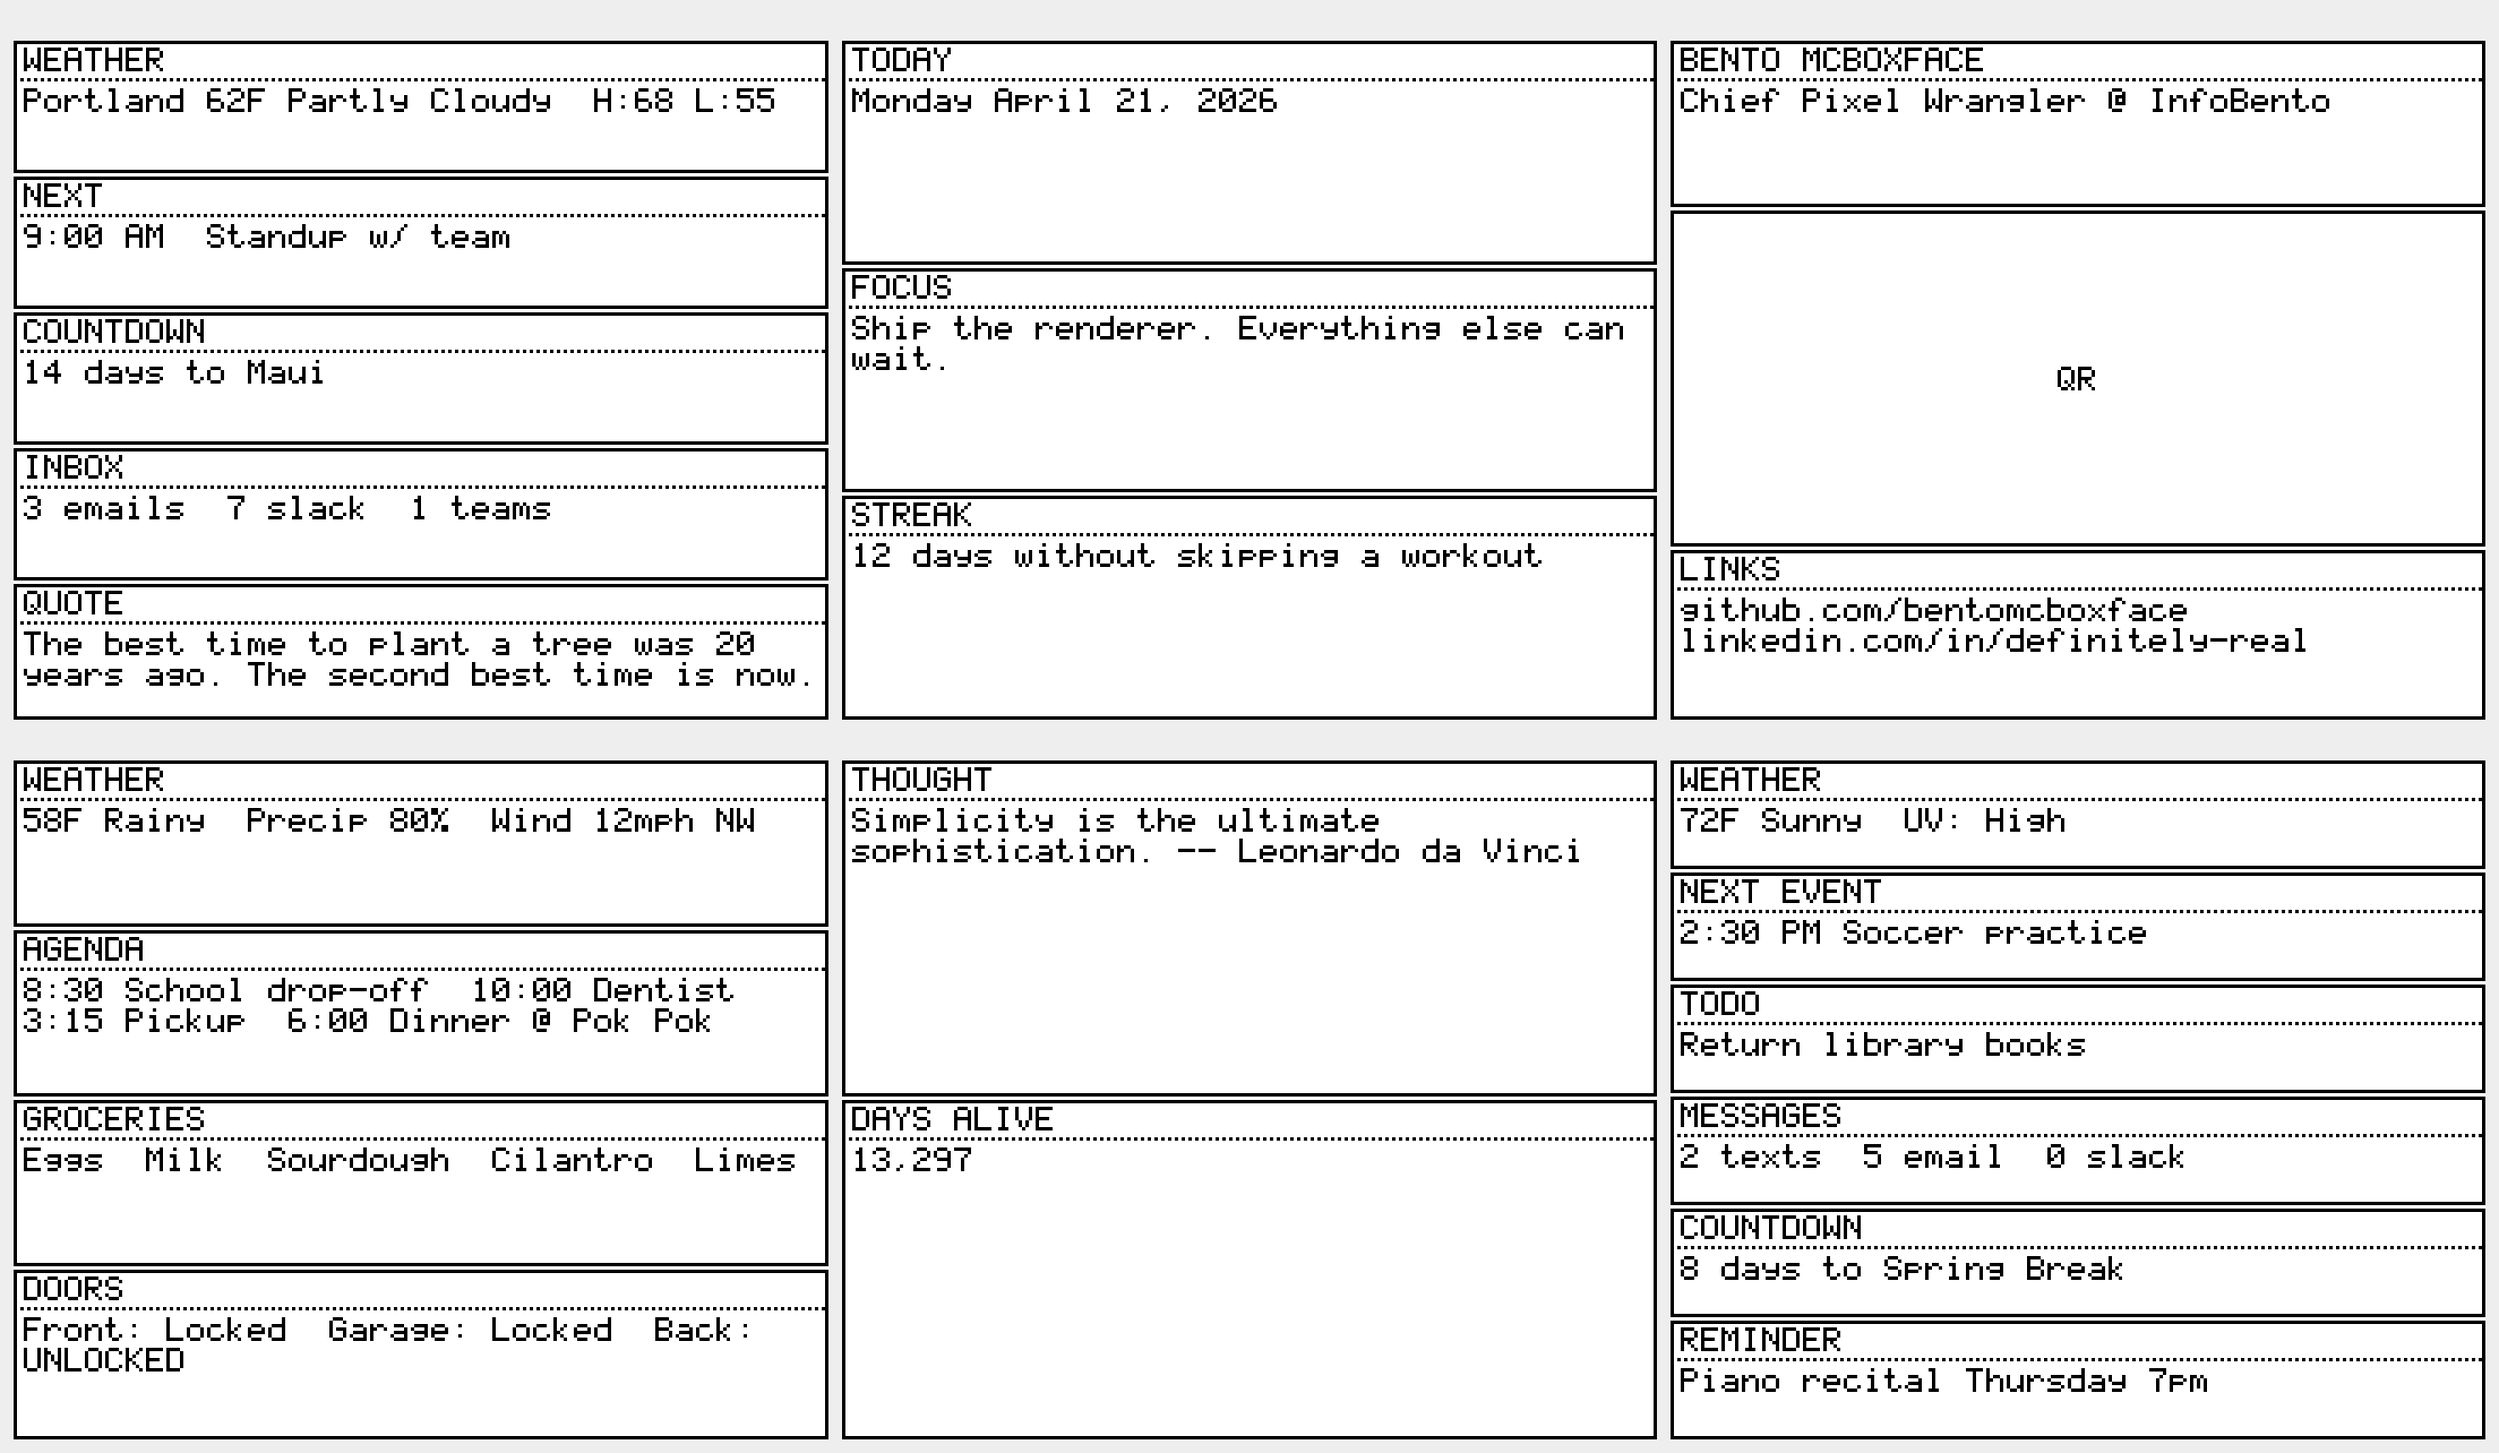
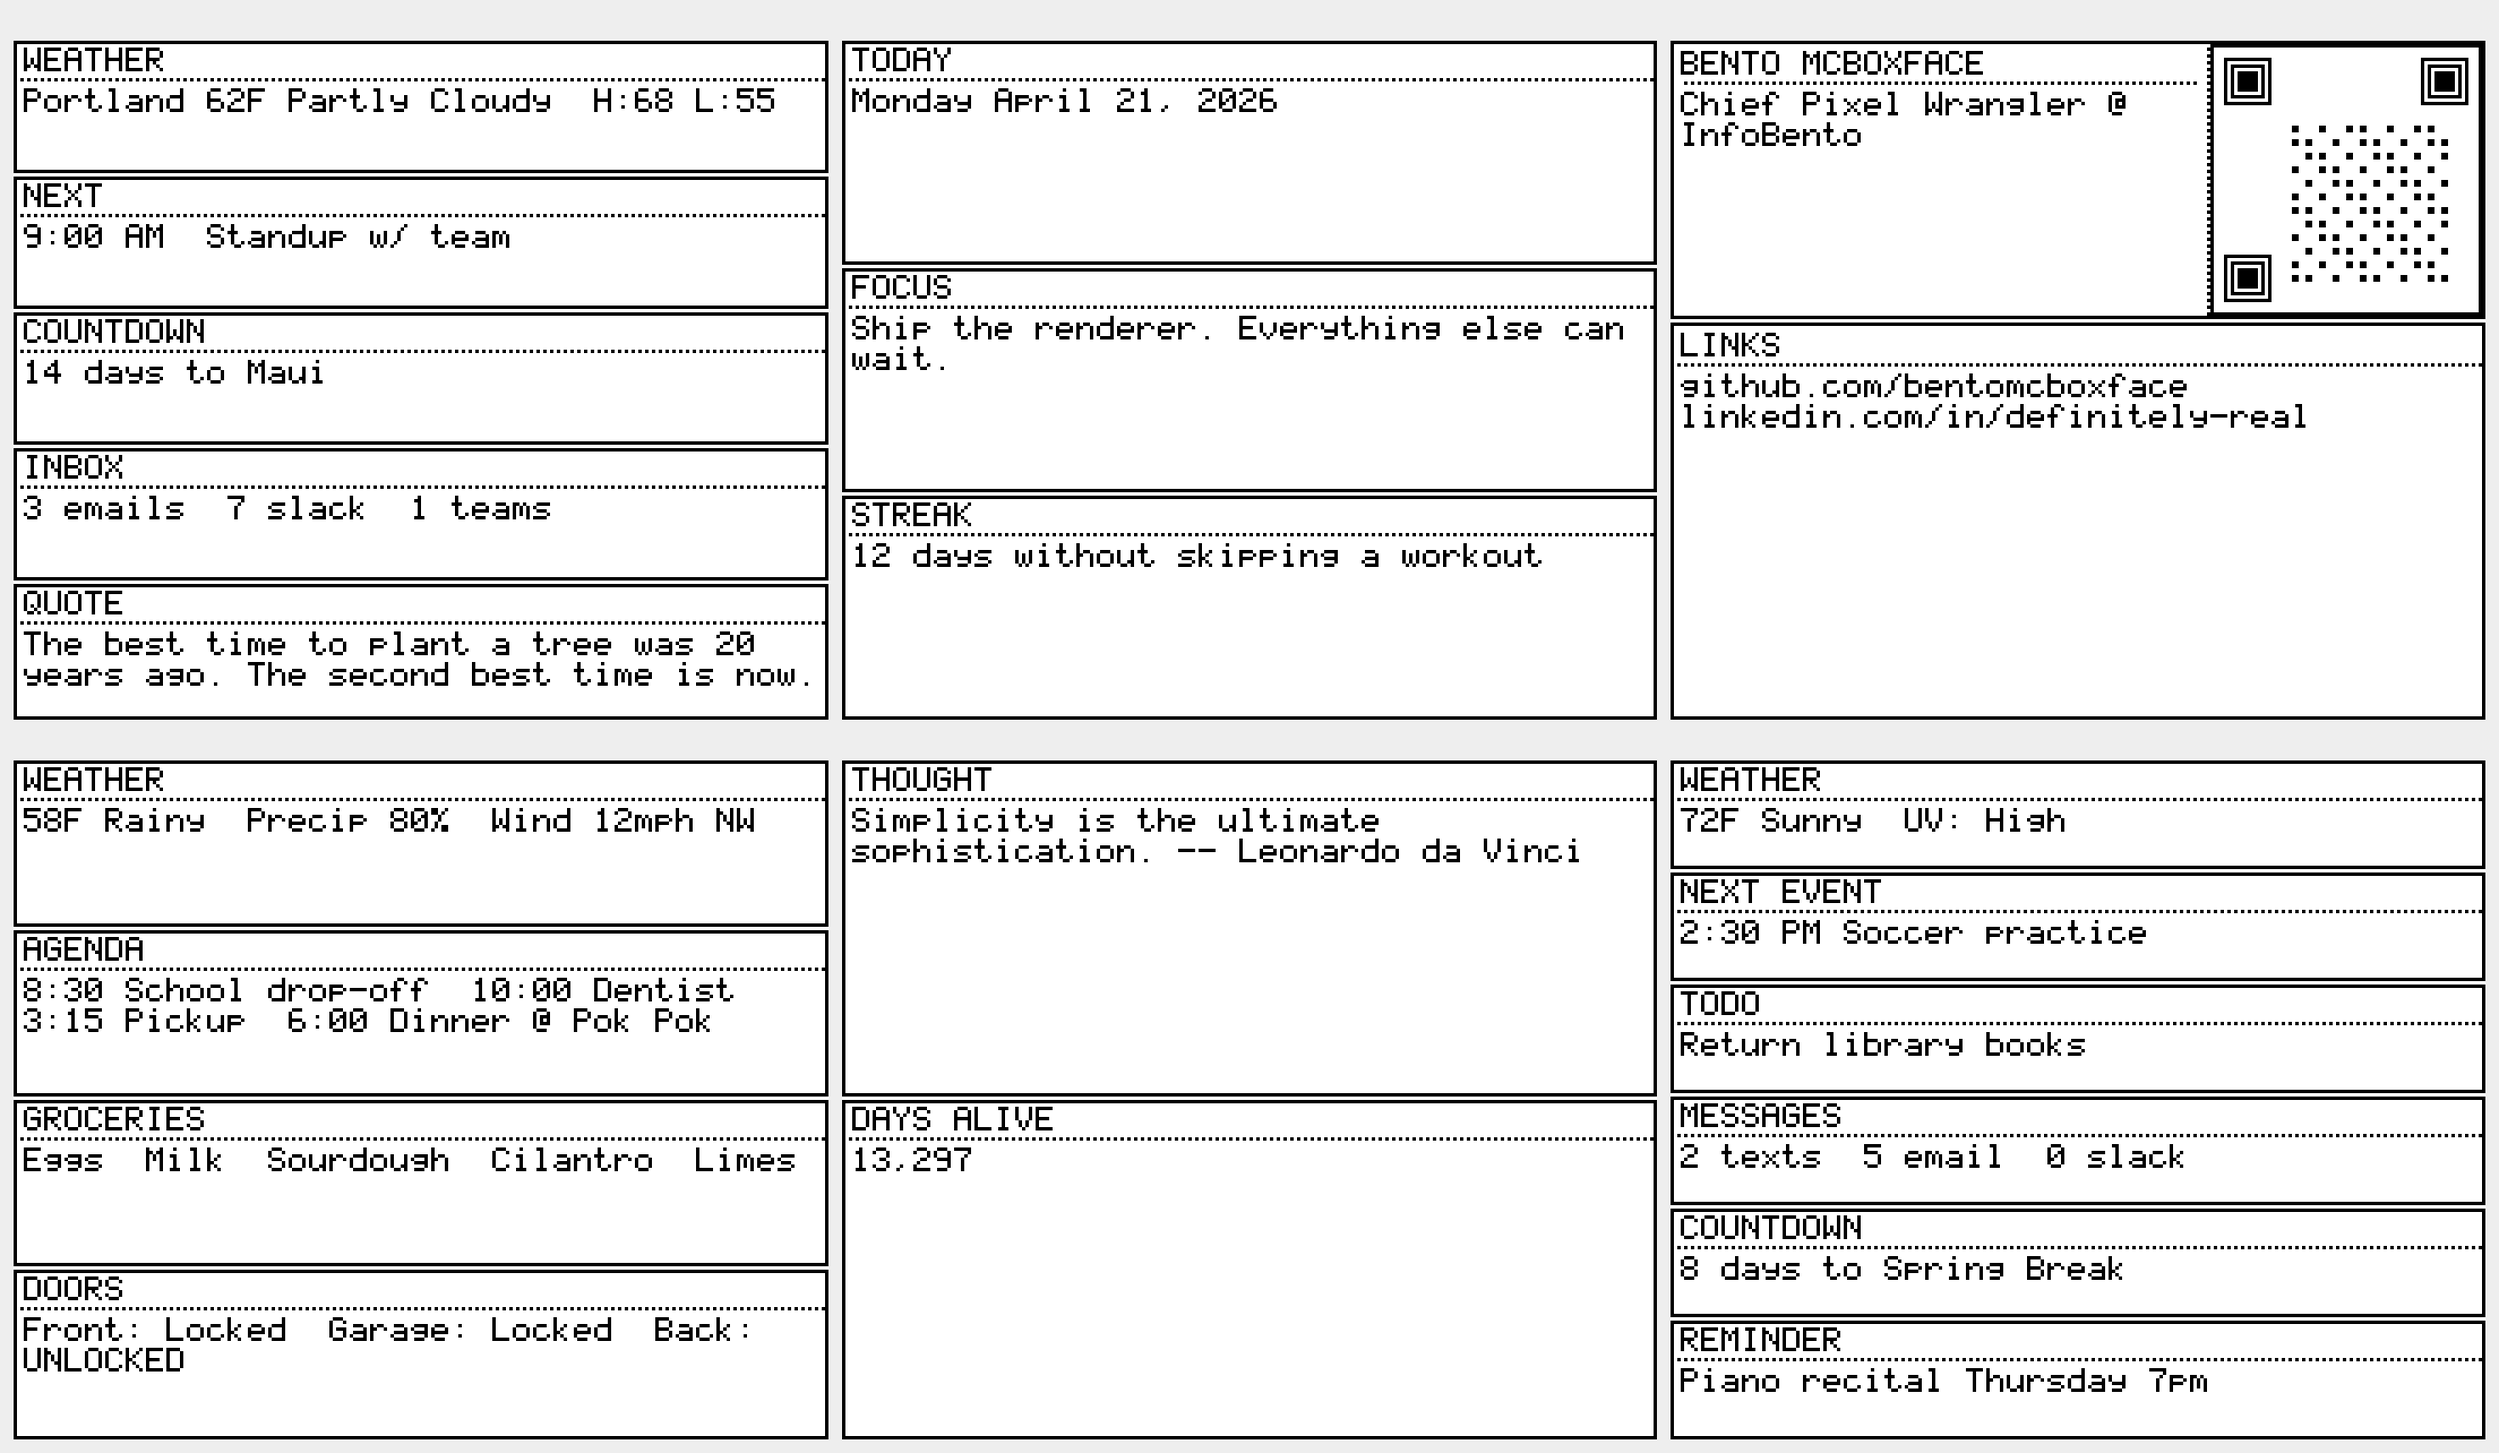
feat(renderer): split layout for networking card — name left, QR right
Custom render for Config C places text on the left and a fake QR
code with finder patterns on the right. Demonstrates horizontal
subdivision within the 240x200 display.

Changed region(s): [[0.6562, 0.031, 1.0, 0.3096], [0.6562, 0.3715, 1.0, 0.4644], [0.9688, 0.031, 1.0, 0.0929]]

diff --git a/scripts/generate-previews.ts b/scripts/generate-previews.ts
@@ -3,8 +3,10 @@
  * Outputs individual PNGs and a contact sheet.
  */
 
-import { render, frameToPng } from '@infobento/renderer';
+import { render, frameToPng, createFrameBuffer } from '@infobento/renderer';
 import type { BentoConfig } from '@infobento/core';
+import { drawRect, drawText, drawTextWrapped, drawHLine } from '../packages/renderer/src/draw.js';
+import { FONT_HEIGHT } from '../packages/renderer/src/font.js';
 import { writeFileSync } from 'node:fs';
 import { PNG } from 'pngjs';
 
@@ -75,25 +77,83 @@ const configB: BentoConfig = {
   refreshesPerDay: 1,
 };
 
-// --- Config C: Networking Card (2 boxes + QR placeholder, asymmetric) ---
-const configC: BentoConfig = {
-  boxes: [
-    {
-      id: '1',
-      label: 'Bento McBoxface',
-      type: 'text',
-      config: { type: 'text', text: 'Chief Pixel Wrangler @ InfoBento' },
-    },
-    { id: '2', label: 'QR', type: 'qr' },
-    {
-      id: '3',
-      label: 'Links',
-      type: 'text',
-      config: { type: 'text', text: 'github.com/bentomcboxface  linkedin.com/in/definitely-real' },
-    },
-  ],
-  refreshesPerDay: 1,
-};
+// --- Config C: Networking Card (custom split layout — name left, QR right) ---
+function renderNetworkingCard() {
+  const fb = createFrameBuffer();
+  const W = 240;
+  const PAD = 3;
+  const qrSize = 80;
+  const qrX = W - qrSize - 1; // right-aligned inside outer border
+  const topH = qrSize + 2; // top section height (QR + borders)
+
+  // Outer border for top section
+  drawRect(fb, 0, 0, W, topH);
+
+  // QR placeholder box on the right
+  drawRect(fb, qrX, 1, qrSize, qrSize);
+  // Draw a fake QR pattern inside
+  const qrInner = qrSize - 8;
+  const qrIX = qrX + 4;
+  const qrIY = 5;
+  // Corner squares (QR finder patterns)
+  for (const [cx, cy] of [
+    [qrIX, qrIY],
+    [qrIX + qrInner - 14, qrIY],
+    [qrIX, qrIY + qrInner - 14],
+  ] as const) {
+    drawRect(fb, cx, cy, 14, 14);
+    drawRect(fb, cx + 2, cy + 2, 10, 10);
+    // Fill inner 6x6
+    for (let dy = 4; dy < 10; dy++) {
+      drawHLine(fb, cx + 4, cy + dy, 6);
+    }
+  }
+  // Scatter some dots for the data region
+  for (let dy = 20; dy < qrInner - 4; dy += 4) {
+    for (let dx = 20; dx < qrInner - 4; dx += 4) {
+      if ((dx * 7 + dy * 13) % 5 < 3) {
+        drawHLine(fb, qrIX + dx, qrIY + dy, 2);
+        drawHLine(fb, qrIX + dx, qrIY + dy + 1, 2);
+      }
+    }
+  }
+
+  // Vertical divider between text and QR
+  const divX = qrX - 1;
+  for (let y = 1; y < topH - 1; y++) {
+    if (y % 2 === 0) drawHLine(fb, divX, y, 1);
+  }
+
+  // Name and title on the left
+  const textW = divX - PAD * 2;
+  drawText(fb, PAD, PAD, 'BENTO MCBOXFACE', textW);
+  // Dotted divider under name
+  const divY = PAD + FONT_HEIGHT + 2;
+  for (let x = PAD; x < divX - PAD; x++) {
+    if (x % 2 === 0) drawHLine(fb, x, divY, 1);
+  }
+  drawTextWrapped(fb, PAD, divY + 3, 'Chief Pixel Wrangler @ InfoBento', textW, topH - divY - 6);
+
+  // Bottom box: links
+  const botY = topH + 1;
+  const botH = 200 - botY;
+  drawRect(fb, 0, botY, W, botH);
+  drawText(fb, PAD, botY + PAD, 'LINKS', W - PAD * 2);
+  const linkDivY = botY + PAD + FONT_HEIGHT + 2;
+  for (let x = 1; x < W - 1; x++) {
+    if (x % 2 === 0) drawHLine(fb, x, linkDivY, 1);
+  }
+  drawTextWrapped(
+    fb,
+    PAD,
+    linkDivY + 3,
+    'github.com/bentomcboxface  linkedin.com/in/definitely-real',
+    W - PAD * 2,
+    botH - (linkDivY - botY) - 6,
+  );
+
+  return fb;
+}
 
 // --- Config D: Kitchen Counter (4 boxes, practical) ---
 const configD: BentoConfig = {
@@ -189,10 +249,9 @@ const configF: BentoConfig = {
   refreshesPerDay: 2,
 };
 
-const configs = [
+const standardConfigs = [
   { name: 'A-commuter', config: configA },
   { name: 'B-desk', config: configB },
-  { name: 'C-networking', config: configC },
   { name: 'D-kitchen', config: configD },
   { name: 'E-minimal', config: configE },
   { name: 'F-maxdensity', config: configF },
@@ -200,13 +259,24 @@ const configs = [
 
 // Render individual PNGs
 const pngs: { name: string; data: Uint8Array }[] = [];
-for (const { name, config } of configs) {
+
+for (const { name, config } of standardConfigs) {
   const fb = render(config);
   const png = frameToPng(fb, SCALE);
   const path = `previews/${name}.png`;
   writeFileSync(path, png);
   pngs.push({ name, data: png });
   console.log(`  ${path} (${png.length} bytes)`);
+}
+
+// Config C uses custom split layout (name left, QR right)
+{
+  const fb = renderNetworkingCard();
+  const png = frameToPng(fb, SCALE);
+  writeFileSync('previews/C-networking.png', png);
+  // Insert at position 2 so contact sheet order is A, B, C, D, E, F
+  pngs.splice(2, 0, { name: 'C-networking', data: png });
+  console.log(`  previews/C-networking.png (${png.length} bytes)`);
 }
 
 // Build contact sheet: 3 columns x 2 rows
@@ -233,7 +303,7 @@ for (let y = 0; y < sheetH; y++) {
 }
 
 // Place each preview into the contact sheet
-for (let i = 0; i < configs.length; i++) {
+for (let i = 0; i < pngs.length; i++) {
   const col = i % COLS;
   const row = Math.floor(i / COLS);
   const offsetX = gap + col * (cellW + gap);
